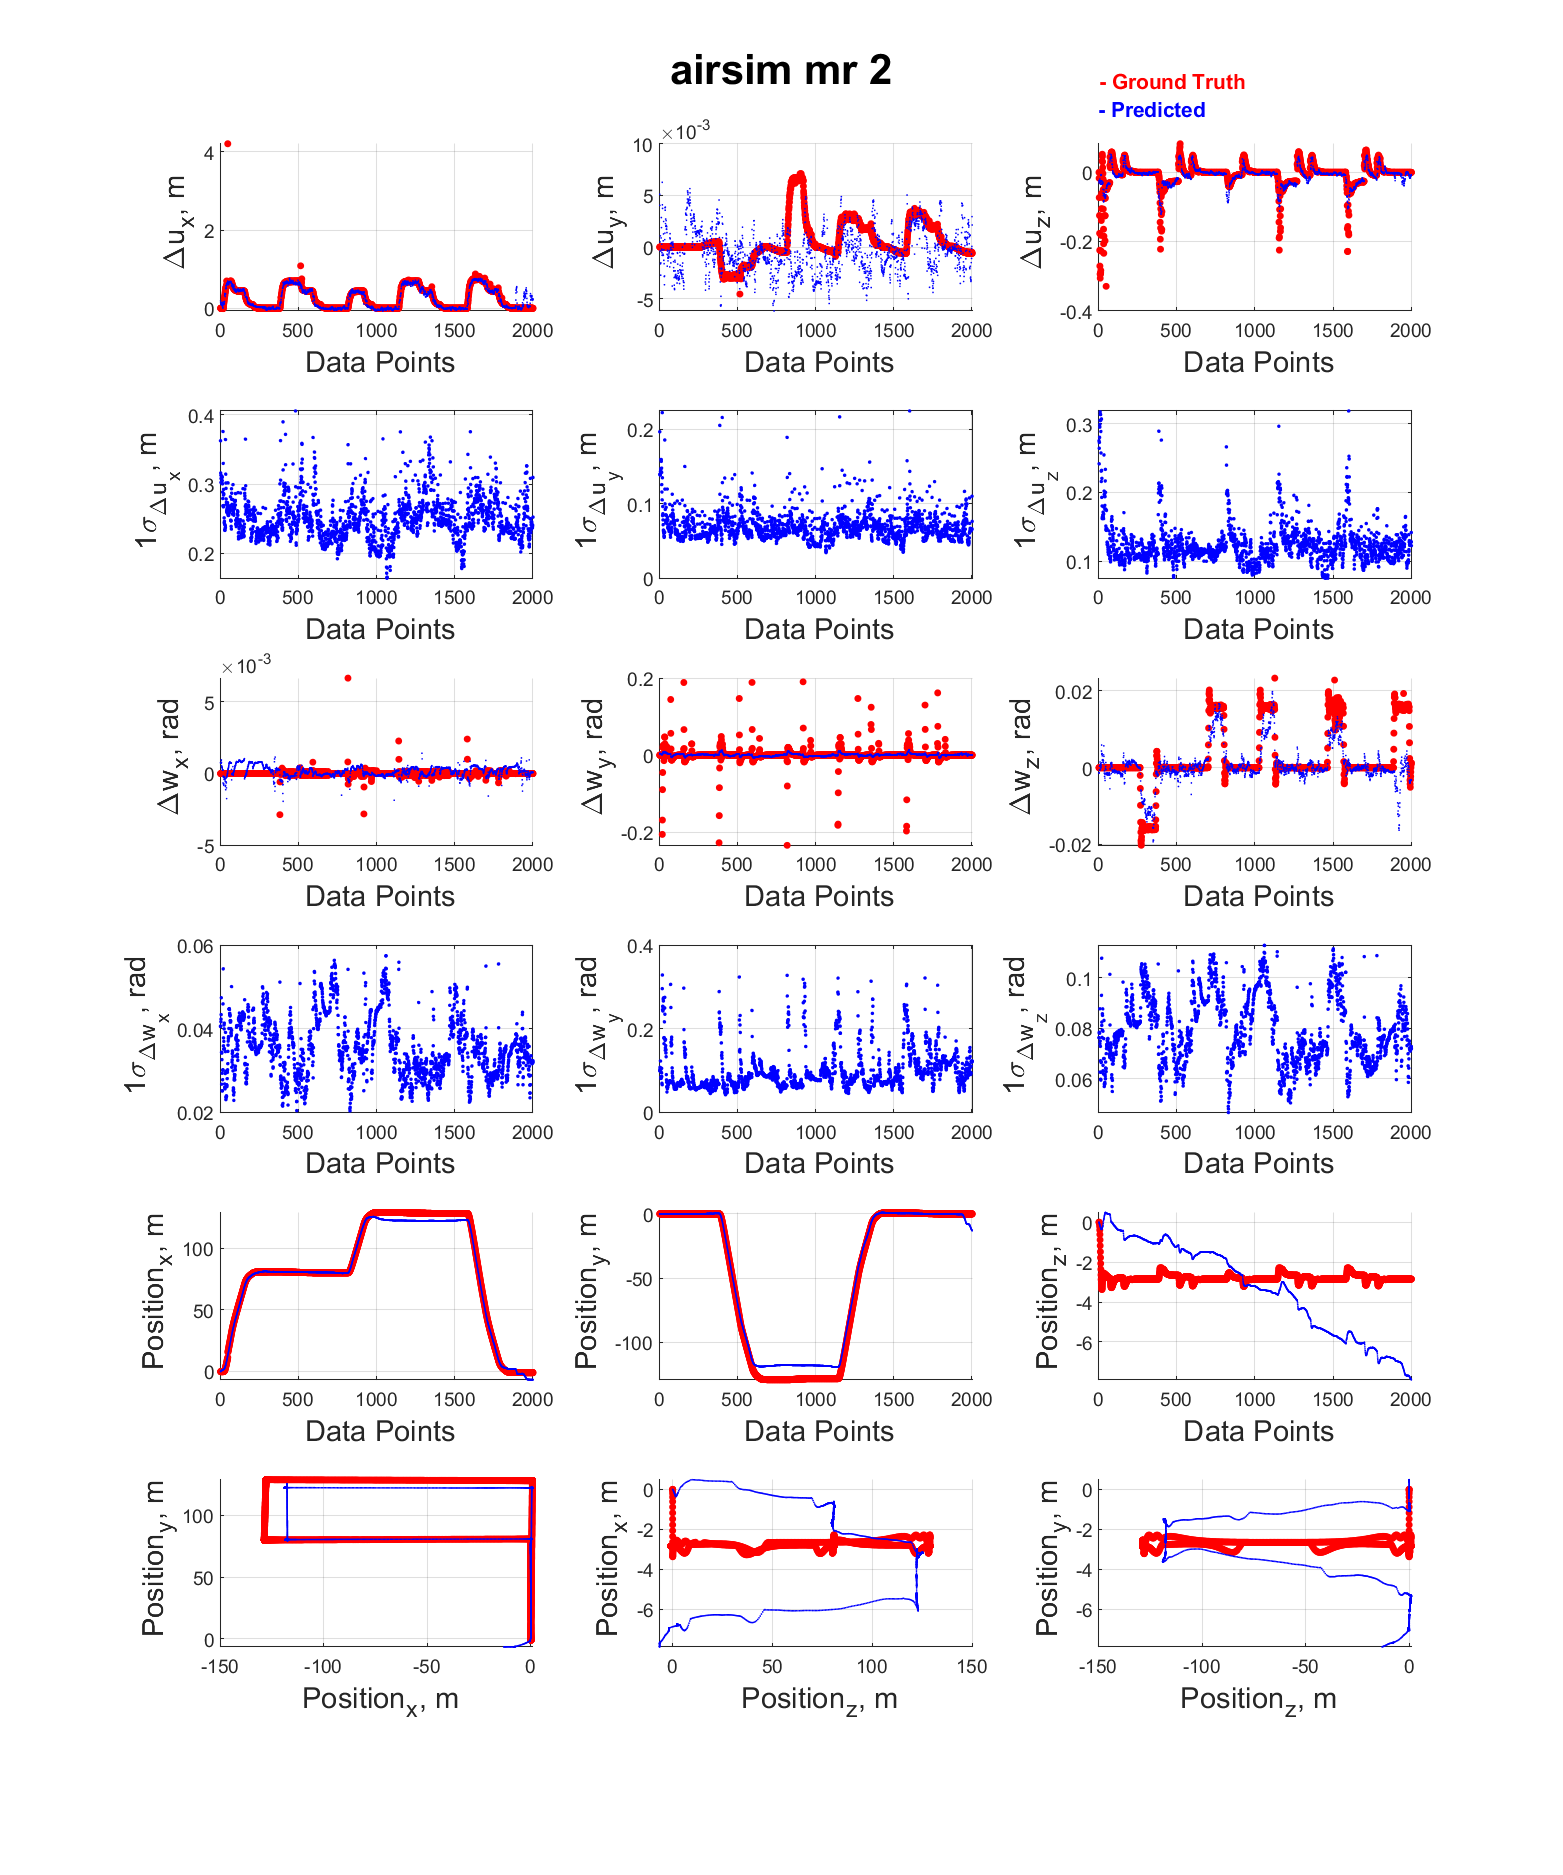
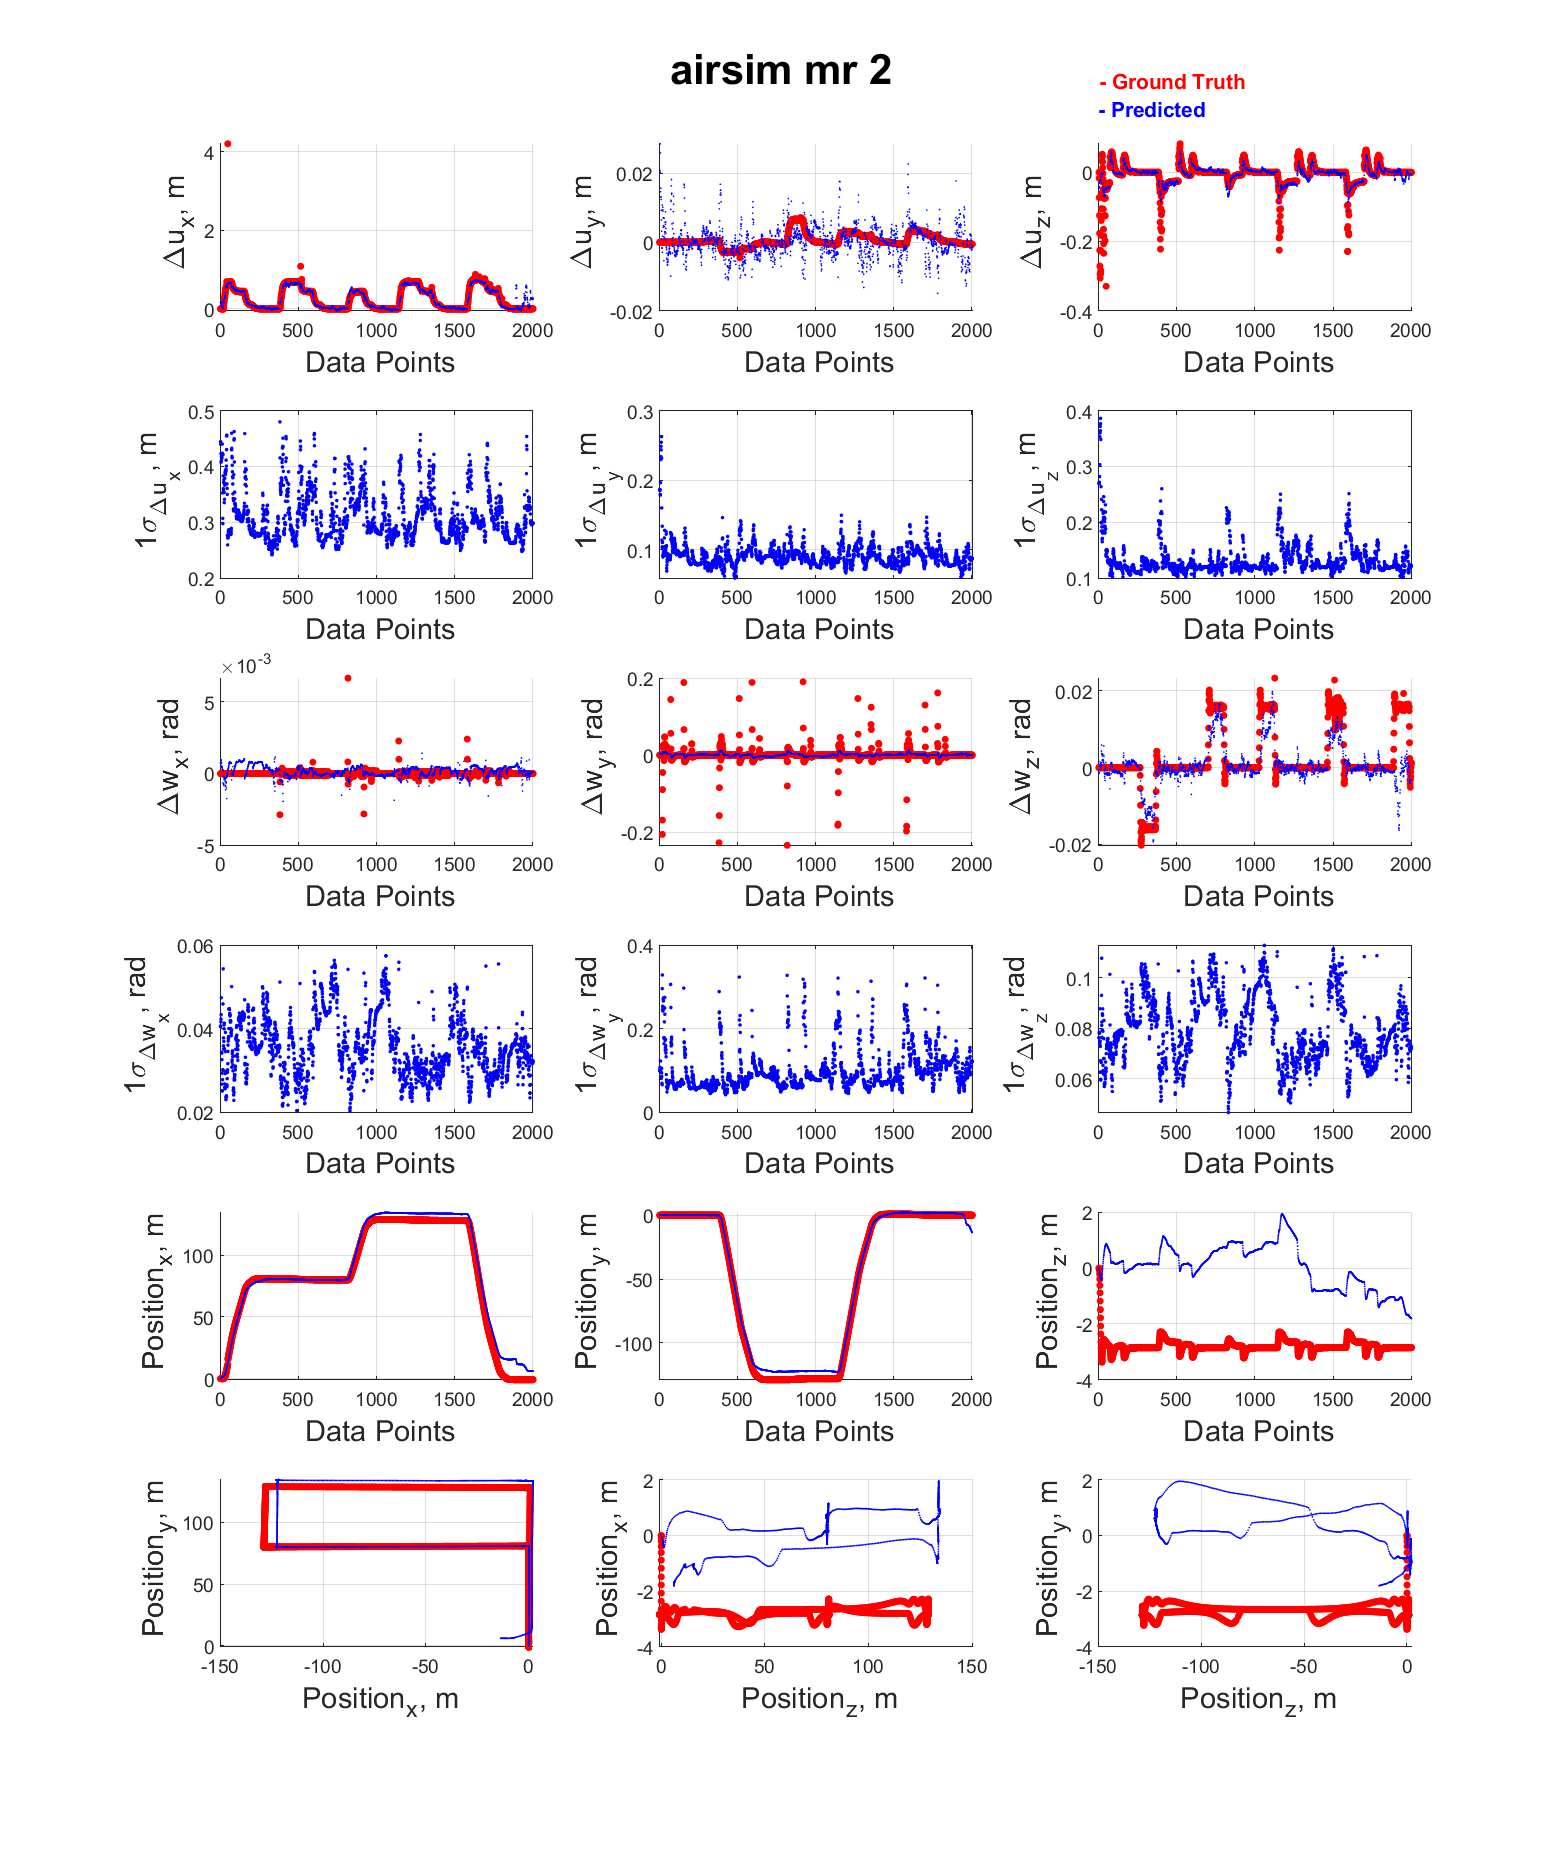
asdf

diff --git a/main.py b/main.py
@@ -7,21 +7,21 @@ import numpy as np
 import time
 from git_branch_param import *
 
-dsName = 'euroc'
+dsName = 'kitti'
 subType= 'none'
 
 wName = 'Weights/' + branchName() + '_' + dsName + '_' + subType
 resName = 'Results/Data/' + branchName() + '_' + dsName + '_'
 
 def train():
-    dm = VODataSetManager_CNN(dsName=dsName, subType=subType, seq=[1, 2, 3, 5], isTrain=True)
+    dm = VODataSetManager_CNN(dsName=dsName, subType=subType, seq=[0,2,4,6], isTrain=True)
     train, val = dm.trainSet, dm.valSet
     mc = ModelContainer_CNN(Model_CNN_0(dsName))
     #mc.load_weights(wName, train=True)
     mc.fit(train, val, batch_size=10, epochs=40, wName=wName, checkPointFreq=1)
 
 def test():
-    for seq in range(1,6):
+    for seq in range(0,10):
         commName = resName + subType + str(seq) if dsName == 'airsim' else resName + str(seq)
         dm = VODataSetManager_CNN(dsName=dsName, subType=subType, seq=[seq], isTrain=False)
         dataset = dm.testSet

diff --git a/Results/show_cnn.m b/Results/show_cnn.m
@@ -1,7 +1,7 @@
 clc, clear, close all
-dsName = 'euroc';
-subType = '';
-seq = 3;
+dsName = 'airsim';
+subType = 'mr';
+seq = 2;
 
 %% Get Ground Truth Info.
 gtPath = getGTPath(dsName,subType, seq);
